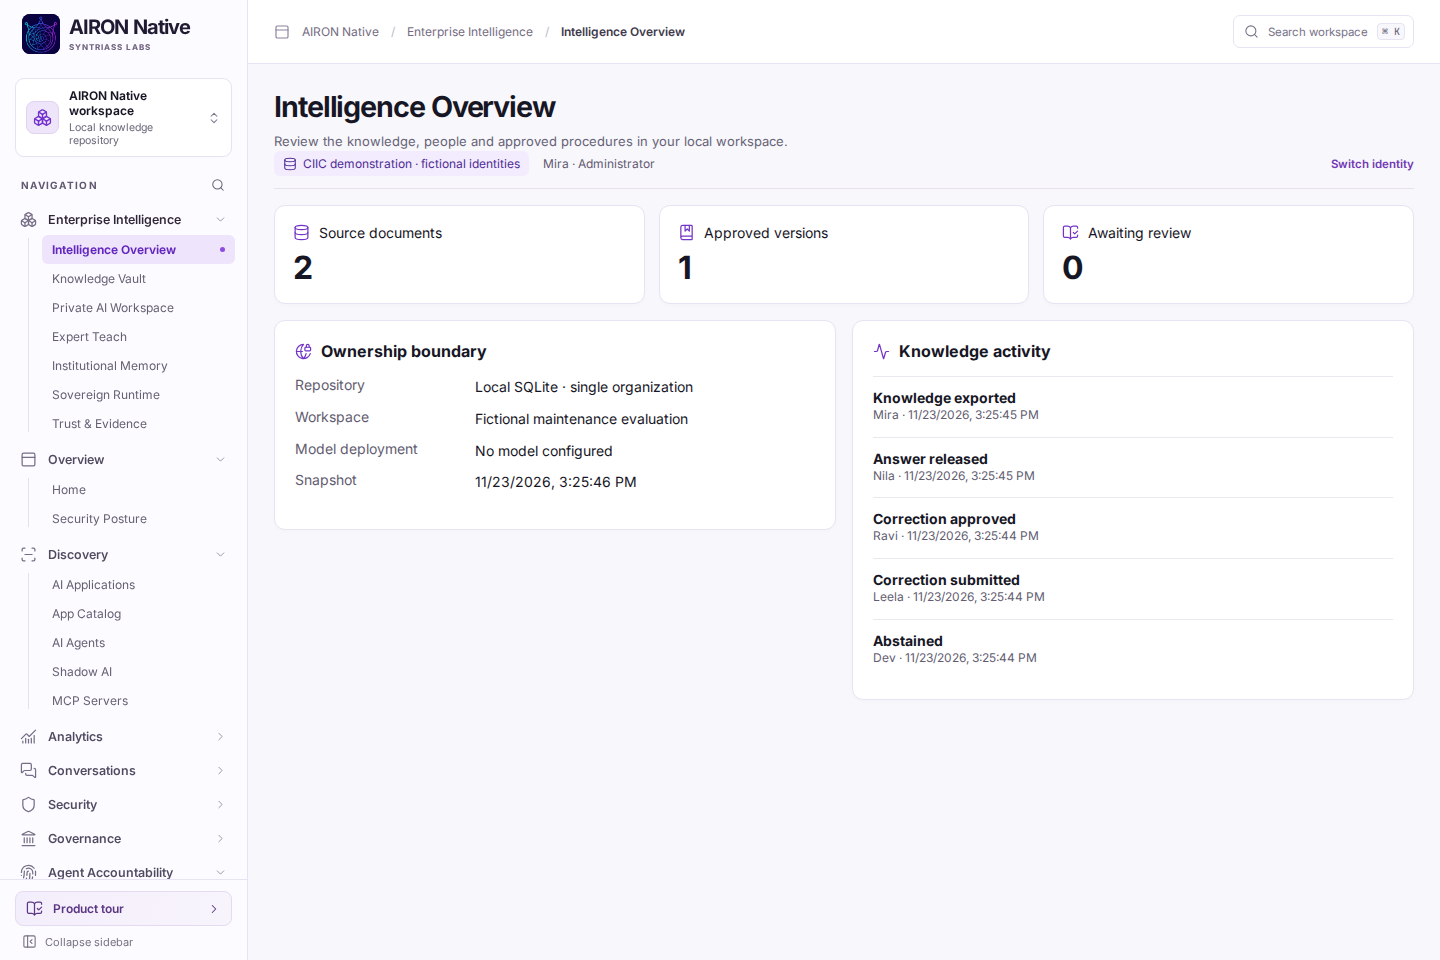
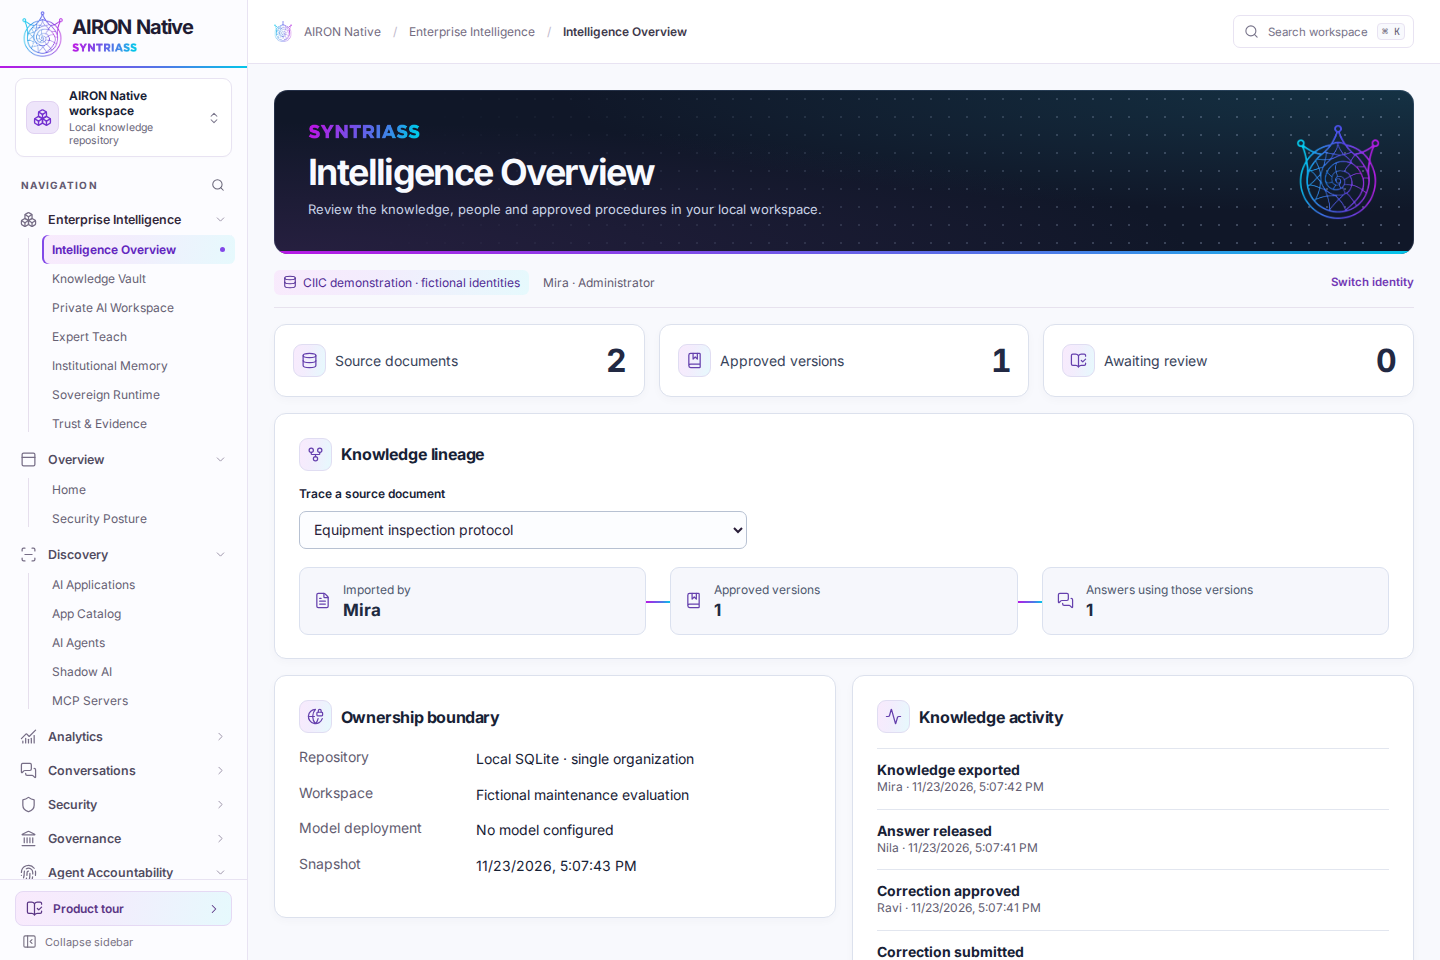
Pin reviewed visual baselines and publish the 14 Chromium console captures

diff --git a/apps/airon-console/tests/ui/intelligence.spec.ts b/apps/airon-console/tests/ui/intelligence.spec.ts
@@ -51,10 +51,22 @@ test("operator imports, teaches, approves, retrieves after restart and exports o
   const output = process.env.CIIC_CAPTURE_DIR;
   const shot = async (p: Page, name: string) => {
     await p.evaluate(() => document.fonts.ready);
-    if (name.includes("login") || /^0[2-8]-/.test(name) || name === "12-mobile-vault") {
-      const scan = await new AxeBuilder({ page: p }).withTags(["wcag2a", "wcag2aa", "wcag21a", "wcag21aa"]).analyze();
-      expect.soft(scan.violations.filter((v) => v.impact === "serious" || v.impact === "critical")
-        .map((v) => [v.id, v.nodes.map((n) => n.target)]), name).toEqual([]);
+    if (
+      name.includes("login") ||
+      /^0[2-8]-/.test(name) ||
+      name === "12-mobile-vault"
+    ) {
+      const scan = await new AxeBuilder({ page: p })
+        .withTags(["wcag2a", "wcag2aa", "wcag21a", "wcag21aa"])
+        .analyze();
+      expect
+        .soft(
+          scan.violations
+            .filter((v) => v.impact === "serious" || v.impact === "critical")
+            .map((v) => [v.id, v.nodes.map((n) => n.target)]),
+          name,
+        )
+        .toEqual([]);
     }
     if (output) {
       await mkdir(output, { recursive: true });
@@ -84,27 +96,67 @@ test("operator imports, teaches, approves, retrieves after restart and exports o
   try {
     await ready();
     await page.goto(ui + "/login");
-    await expect(page.getByRole("link", { name: "Sign in to workspace" })).toHaveAttribute("href", "/signin-with-chatgpt?return_to=%2F");
+    await expect(
+      page.getByRole("link", { name: "Sign in to workspace" }),
+    ).toHaveAttribute("href", "/signin-with-chatgpt?return_to=%2F");
     await expect(page.locator(".welcome-art img")).toBeVisible();
+    await expect(page.locator('link[rel="manifest"]')).toHaveAttribute(
+      "href",
+      "/manifest.webmanifest",
+    );
+    await expect(page.locator('link[rel="apple-touch-icon"]')).toHaveAttribute(
+      "href",
+      "/brand/icon-180.png",
+    );
+    const manifest = await (
+      await page.request.get(ui + "/manifest.webmanifest")
+    ).json();
+    expect(manifest.icons.map((icon: { sizes: string }) => icon.sizes)).toEqual(
+      ["192x192", "512x512"],
+    );
+    for (const icon of manifest.icons) {
+      const dimensions = await page.evaluate(async (src: string) => {
+        const image = new Image();
+        image.src = src;
+        await image.decode();
+        return [image.naturalWidth, image.naturalHeight].join("x");
+      }, icon.src);
+      expect(dimensions).toBe(icon.sizes);
+    }
     await shot(page, "00-login");
-    if (output) await page.locator(".welcome-frame").screenshot({ path: join(output, "reference-login-desktop.png") });
+    await expect(page.locator(".welcome-frame")).toHaveScreenshot(
+      "login-desktop.png",
+    );
     await page.setViewportSize({ width: 390, height: 844 });
     await shot(page, "11-mobile-login");
-    if (output) await page.locator(".welcome-frame").screenshot({ path: join(output, "reference-login-mobile.png") });
+    await expect(page.locator(".welcome-frame")).toHaveScreenshot(
+      "login-mobile.png",
+    );
     await page.setViewportSize({ width: 1440, height: 960 });
     await page.goto(ui);
     await expect(
       page.getByText("AI activity over time", { exact: true }),
     ).toBeVisible();
     await expect(page).toHaveTitle(/AIRON Native/);
-    const brand = page.getByRole("img", { name: "SYNTRIASS Labs · AIRON Native" }).first();
+    const brand = page
+      .getByRole("img", { name: "SYNTRIASS Labs · AIRON Native" })
+      .first();
     await expect(brand).toBeVisible();
-    await expect.poll(() => brand.locator("img").evaluateAll((images) =>
-      images.every((img) => (img as HTMLImageElement).naturalWidth > 0) && images.length === 2,
-    )).toBe(true);
-    await expect(page.locator(".nav-children [aria-current]").first()).toHaveCSS(
-      "background-image", /linear-gradient/,
-    );
+    await expect
+      .poll(() =>
+        brand
+          .locator("img")
+          .evaluateAll(
+            (images) =>
+              images.every(
+                (img) => (img as HTMLImageElement).naturalWidth > 0,
+              ) && images.length === 2,
+          ),
+      )
+      .toBe(true);
+    await expect(
+      page.locator(".nav-children [aria-current]").first(),
+    ).toHaveCSS("background-image", /linear-gradient/);
     await shot(page, "01-dashboard");
     await page
       .getByRole("link", { name: "Knowledge Vault", exact: true })
@@ -116,13 +168,11 @@ test("operator imports, teaches, approves, retrieves after restart and exports o
     await expect(
       page.getByText("Maintenance document imported."),
     ).toBeVisible();
-    await page
-      .getByLabel("Text or Markdown file")
-      .setInputFiles({
-        name: "fixture.md",
-        mimeType: "text/markdown",
-        buffer: Buffer.from("North bay uses the fictional register NB-3."),
-      });
+    await page.getByLabel("Text or Markdown file").setInputFiles({
+      name: "fixture.md",
+      mimeType: "text/markdown",
+      buffer: Buffer.from("North bay uses the fictional register NB-3."),
+    });
     await page
       .getByLabel("Question supported by this excerpt")
       .fill("Which north bay register?");
@@ -231,12 +281,26 @@ test("operator imports, teaches, approves, retrieves after restart and exports o
       page.getByRole("heading", { name: "Ownership boundary" }),
     ).toBeVisible();
     const lineage = page.getByRole("list", { name: "Selected source lineage" });
-    await expect(lineage.getByRole("listitem")).toHaveText(["Imported byMira", "Approved versions1", "Answers using those versions1"]);
-    if (output) await page.locator(".intelligence-heading").screenshot({ path: join(output, "reference-intelligence-masthead.png") });
-    if (output) await lineage.screenshot({ path: join(output, "reference-source-lineage.png") });
-    await page.getByLabel("Trace a source document").selectOption({ label: "fixture.md" });
-    await expect(lineage.getByRole("listitem")).toHaveText(["Imported byMira", "Approved versions0", "Answers using those versions0"]);
-    await page.getByLabel("Trace a source document").selectOption({ label: "Equipment inspection protocol" });
+    await expect(lineage.getByRole("listitem")).toHaveText([
+      "Imported byMira",
+      "Approved versions1",
+      "Answers using those versions1",
+    ]);
+    await expect(page.locator(".intelligence-heading")).toHaveScreenshot(
+      "intelligence-masthead.png",
+    );
+    await expect(lineage).toHaveScreenshot("source-lineage.png");
+    await page
+      .getByLabel("Trace a source document")
+      .selectOption({ label: "fixture.md" });
+    await expect(lineage.getByRole("listitem")).toHaveText([
+      "Imported byMira",
+      "Approved versions0",
+      "Answers using those versions0",
+    ]);
+    await page
+      .getByLabel("Trace a source document")
+      .selectOption({ label: "Equipment inspection protocol" });
     await shot(page, "02-intelligence-overview");
     await route(page, "agent-lineage", "Agent Lineage");
     await expect(page.locator(".vgraph-node").first()).toBeVisible();

diff --git a/apps/airon-console/playwright.config.ts b/apps/airon-console/playwright.config.ts
@@ -3,6 +3,12 @@ export default defineConfig({
   testDir: "./tests/ui",
   timeout: 90000,
   workers: 1,
+  expect: {
+    toHaveScreenshot: {
+      pathTemplate: "{testDir}/visual-baselines/{testFileName}/{arg}{ext}",
+      maxDiffPixelRatio: 0.007,
+    },
+  },
   retries: 0,
   reporter: "line",
   outputDir: ".sites-runtime/ui-results",

diff --git a/docs/CIIC_DEMO_GUIDE.md b/docs/CIIC_DEMO_GUIDE.md
@@ -77,17 +77,17 @@ flowchart TD
 
 ## Recorded application screens
 
-These ten 1440 × 960 PNGs were captured from the built application in Chromium. The intelligence records come from the scripted fictional maintenance walkthrough. The inherited security and FinOps views show their labeled synthetic tenant.
+These Chromium captures show the built application at 1440 × 960 on desktop and 390 × 844 on mobile. The intelligence records come from the scripted fictional maintenance walkthrough. The inherited security and FinOps views show their labeled synthetic tenant.
 
 | | |
 | --- | --- |
+| [Workspace sign-in](ciic-screens/00-login.png) | [Mobile sign-in](ciic-screens/11-mobile-login.png) |
 | [Security dashboard](ciic-screens/01-dashboard.png) | [Intelligence Overview](ciic-screens/02-intelligence-overview.png) |
 | [Knowledge Vault](ciic-screens/03-knowledge-vault.png) | [Private AI Workspace](ciic-screens/04-private-workspace.png) |
 | [Expert Teach](ciic-screens/05-expert-teach.png) | [Institutional Memory](ciic-screens/06-institutional-memory.png) |
 | [Sovereign Runtime](ciic-screens/07-sovereign-runtime.png) | [Trust & Evidence](ciic-screens/08-trust-evidence.png) |
 | [Agent Lineage](ciic-screens/09-agent-lineage.png) | [AI FinOps · Spending](ciic-screens/10-ai-finops.png) |
-
-[Download all ten PNGs from the CI run](https://github.com/richardrich999888-rgb/AIRON-native-/actions/runs/45204756788/artifacts/14832089365).
+| [Mobile Knowledge Vault](ciic-screens/12-mobile-vault.png) | [Mobile navigation](ciic-screens/13-mobile-navigation.png) |
 
 ## Reproduce validation and capture
 
@@ -104,14 +104,14 @@ CIIC_CAPTURE_DIR="$PWD/../../docs/ciic-screens" npx playwright test tests/ui/int
 npm run test:ui
 ```
 
-Use an unused 8766/8787 port pair for the intelligence browser test. It provisions a disposable local repository, imports an actual file through the UI, switches identities, restarts the service, opens a second browser context and inspects the exported JSON. It captures the dashboard, seven intelligence pages, Agent Lineage and Spending. The original native qualification script can additionally run all optional tests with a pinned AIP checkout and Rust 1.99.1. The AIRON CIIC workflow builds and exercises the original app before testing the rebrand. Its screenshot artifact is named **CIIC-console-screens**.
+Use an unused 8766/8787 port pair for the intelligence browser test. It provisions a disposable local repository, imports an actual file through the UI, switches identities, restarts the service, opens a second browser context and inspects the exported JSON. It captures sign-in, the dashboard, seven intelligence pages, Agent Lineage, Spending and mobile navigation. The original native qualification script can additionally run all optional tests with a pinned AIP checkout and Rust 1.99.1. The AIRON CIIC workflow builds and exercises the original app before testing the rebrand. Its screenshot artifact is named **CIIC-console-screens**.
 
 
-## Local validation record
+## P0-060 local validation record
 
 The pinned application and branded application both passed production builds under Node 24.22.3. The branded TypeScript check passed. ESLint reported zero errors and 22 warnings. The core suite passed 20 tests, including both navigation-preservation assertions, with six native-binary-dependent checks skipped locally. Eight ownership and access tests passed, including re-opening the store, concurrent review, source ambiguity and unavailable inference. All eight existing AIRON website engine tests passed. Browser and full native qualification use the GitHub runner because this local shell disallows browser sockets.
 
-## Hosted qualification — 23 November 2026
+## P0-060 hosted qualification — 23 November 2026
 
 [Completed GitHub Actions run](https://github.com/richardrich999888-rgb/AIRON-native-/actions/runs/45204756788) for implementation commit `0b579ac08c69a6345d585f38dc241b87a2b40efd`.
 
